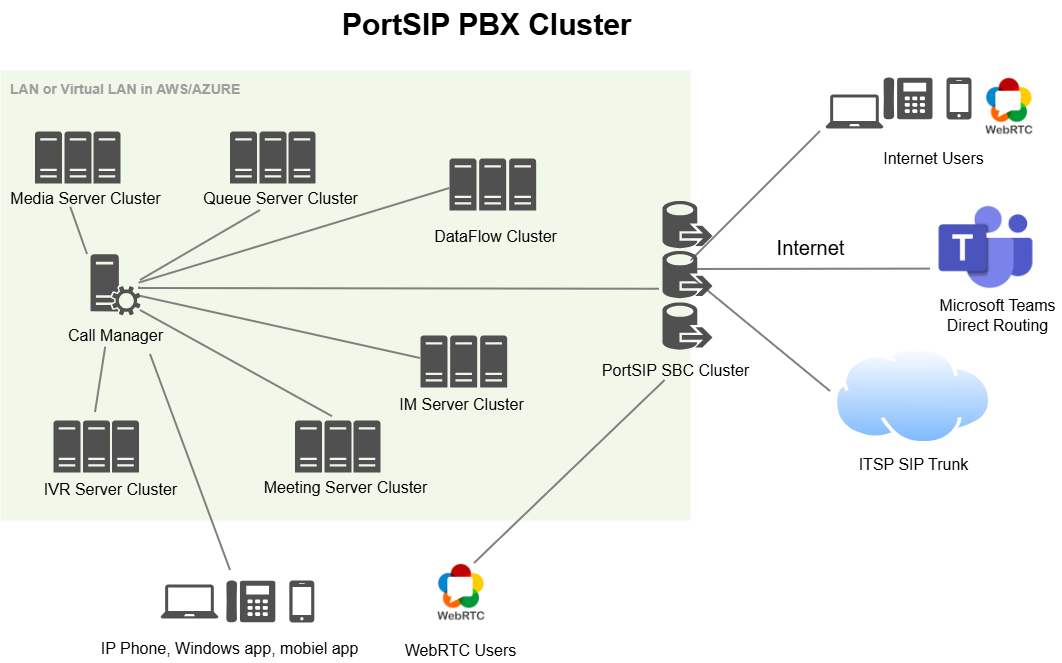
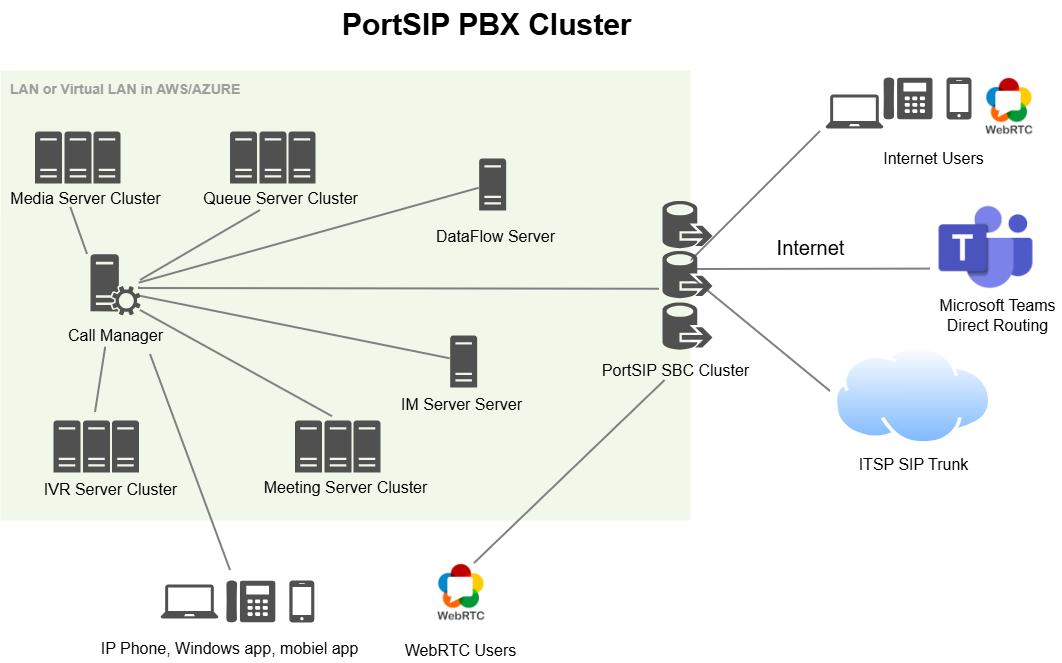
GitBook: No commit message

diff --git a/portsip-communications-solution/high-availability-v22.x/high-availability-and-sclability-on-premise/scaling-servers-on-aws-for-on-premise.md b/portsip-communications-solution/high-availability-v22.x/high-availability-and-sclability-on-premise/scaling-servers-on-aws-for-on-premise.md
@@ -1,6 +1,10 @@
 # Scaling Servers On-Premise for High Availability
 
-This guide explains how to configure cluster servers for a **High Availability (HA) PortSIP PBX deployment** designed to operate at very large scale.\
+This guide explains how to configure cluster servers for a **High Availability (HA) PortSIP PBX deployment** designed to operate at very large scale.
+
+<figure><img src="../../../.gitbook/assets/pbx_ha_cluster_diagram.png" alt=""><figcaption></figcaption></figure>
+
+\
 The architecture can support:
 
 * Over 1 million total users

diff --git a/portsip-communications-solution/pbx-cluster-v22/preparing-cluster-servers.md b/portsip-communications-solution/pbx-cluster-v22/preparing-cluster-servers.md
@@ -95,7 +95,6 @@ Run the following commands on each server:
 sudo curl \
 https://raw.githubusercontent.com/portsip/portsip-pbx-sh/master/v22.x/init.sh \
 -o init.sh
-
 sudo /bin/sh init.sh
 ```
 
